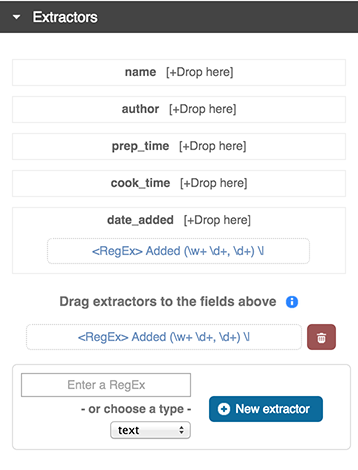
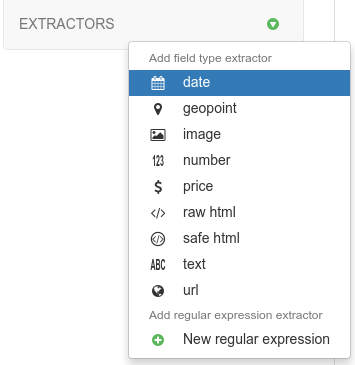
updates on samples and spiders docs

diff --git a/docs/samples.rst b/docs/samples.rst
@@ -49,17 +49,31 @@ You can create annotations by clicking an element on the page with the appropria
 Extractors
 ----------
 
-.. image:: _static/portia-extractors.png
-    :alt: Field extractors
-
 You can also add extractors to annotations. Extractors let you use regular expressions or a pre-defined type to further refine data extracted from a page.
 
 For example, assume there's an element that contains a phone number, but it has additional text that you don't need. In this scenario you could add an extractor to retrieve only the phone number instead of the full text.
 
+You can define the extractor for a particular field by clicking in the gear icon right after the field type:
+
+.. image:: _static/portia-goto-extractors.png
+    :alt: Field extractors
+
+And then you can select use any built-in extractors or create your own extractor via regular expressions:
+
+.. image:: _static/portia-extractors.png
+    :alt: Field extractors
+
 Multiple fields
 ---------------
 
-It's possible to extract multiple fields using a single annotation if there are several properties you want to extract from an element. For example, if there was an anchor link on the page, you could map the ``href`` attribute containing the URL to one field, and you could map the text to another. You can view a particular annotation's settings by either clicking the cog in the annotation pop-up window or by clicking the cog beside the annotation in the ``Annotations`` section of the sample configuration. Within this context there is an ``Attribute mappings`` section where you can define additional mappings for the selected annotation should you want to map other attributes.
+It's possible to extract multiple fields using a single annotation if there are several properties you want to extract from an element. For example, if there was an image on the page, you could map the ``src`` attribute containing the image URL to one field, and you could map the ``alt`` attribute to another.
+
+You can do it in the ``Inspector`` panel in the top left of the screen:
+
+.. image:: _static/portia-sample-multiple-fields.png
+    :alt: Multiple fields from one element
+
+Just click the ``+`` button right after an attribute to add a new field based on the same annotation.
 
 .. _multiple-samples:
 

diff --git a/docs/spiders.rst b/docs/spiders.rst
@@ -13,13 +13,18 @@ Spider properties
 
 You can access your spider's properties by clicking the gear icon located right of your spider in the list on the left.
 
-Configuring login details
-=========================
+.. image:: _static/portia-spider-properties.png
+    :alt: Spider properties
 
-If you need to log into a site, you can configure login details by ticking 'Perform login' in the :ref:`spider properties <spider-properties>` menu. Here you can set the login URL, username and password.
+
+Configuring login details
+^^^^^^^^^^^^^^^^^^^^^^^^^
+
+If you need to log into a site, you can configure login details by ticking 'Perform login' in the :ref:`spider properties <spider-properties>` menu. Then you can set the login URL, username and password.
+
 
 Enabling JavaScript
-===================
+^^^^^^^^^^^^^^^^^^^
 
 You can enable JavaScript in your spider by ticking ``Enable JavaScript`` in the :ref:`spider properties <spider-properties>` menu. Note that you'll need to set the ``SPLASH_URL`` Scrapy setting to your Splash endpoint URL for JavaScript to work during the crawl.
 
@@ -29,6 +34,10 @@ Start pages and link crawling
 Start pages are the initial URLs that Portia will visit to start the crawl. You can add and remove start pages on the left menu.
 
 You can choose how Portia will follow links under ``Link Crawling``.
+
+.. image:: _static/portia-spider-link-crawling.png
+    :alt: Link crawling properties
+
 
 * Follow all in-domain links - follow all links under the same domain and subdomain.
 * Don't follow links - only visit start URLs.
